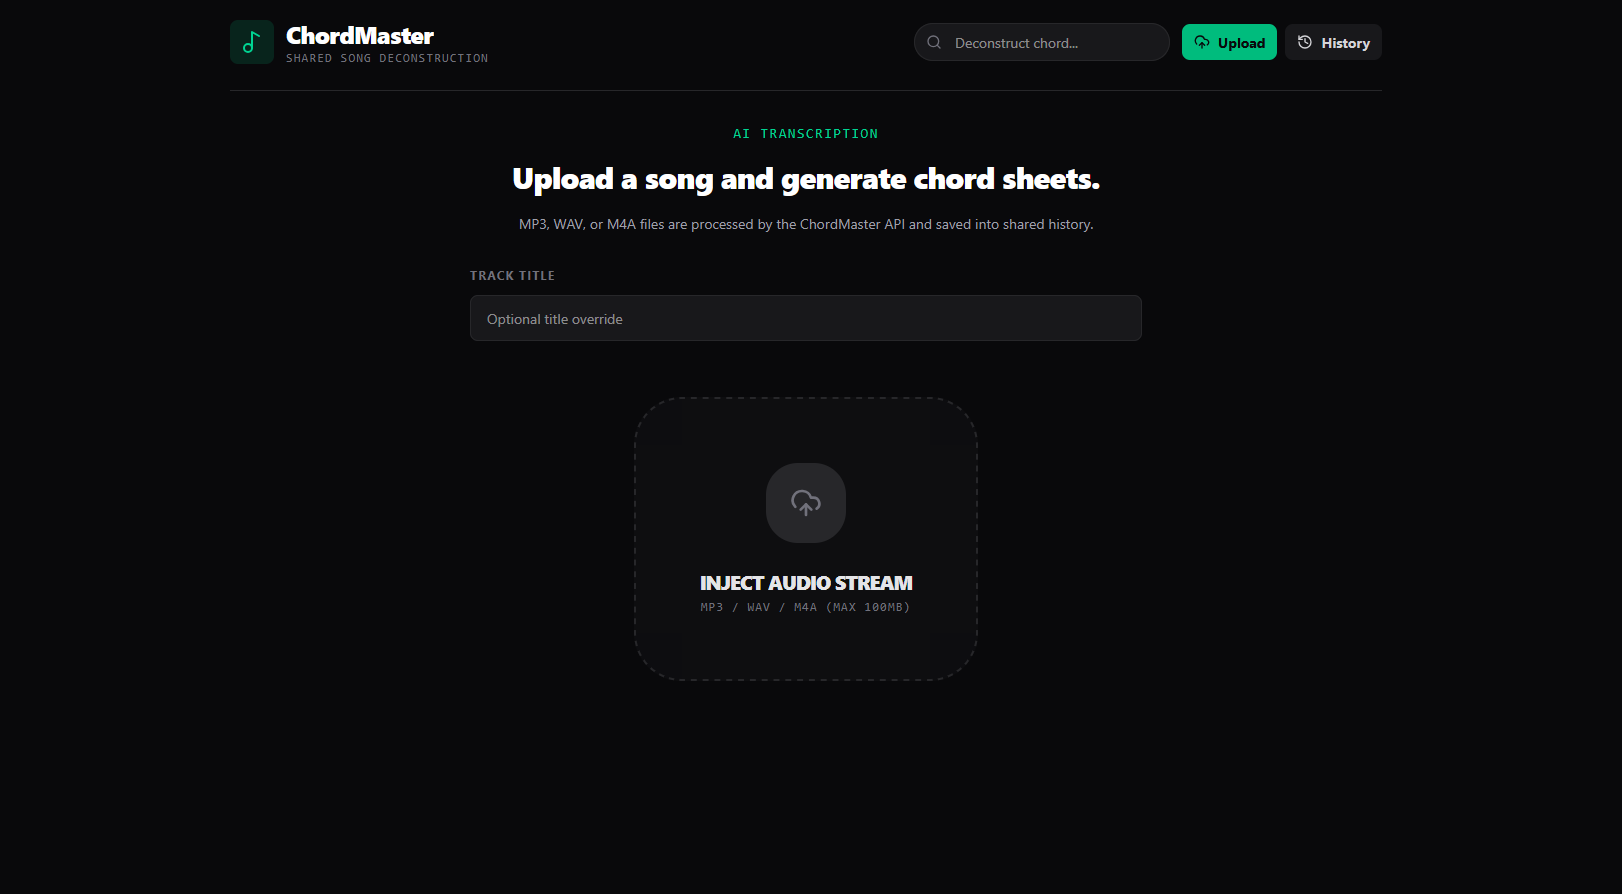
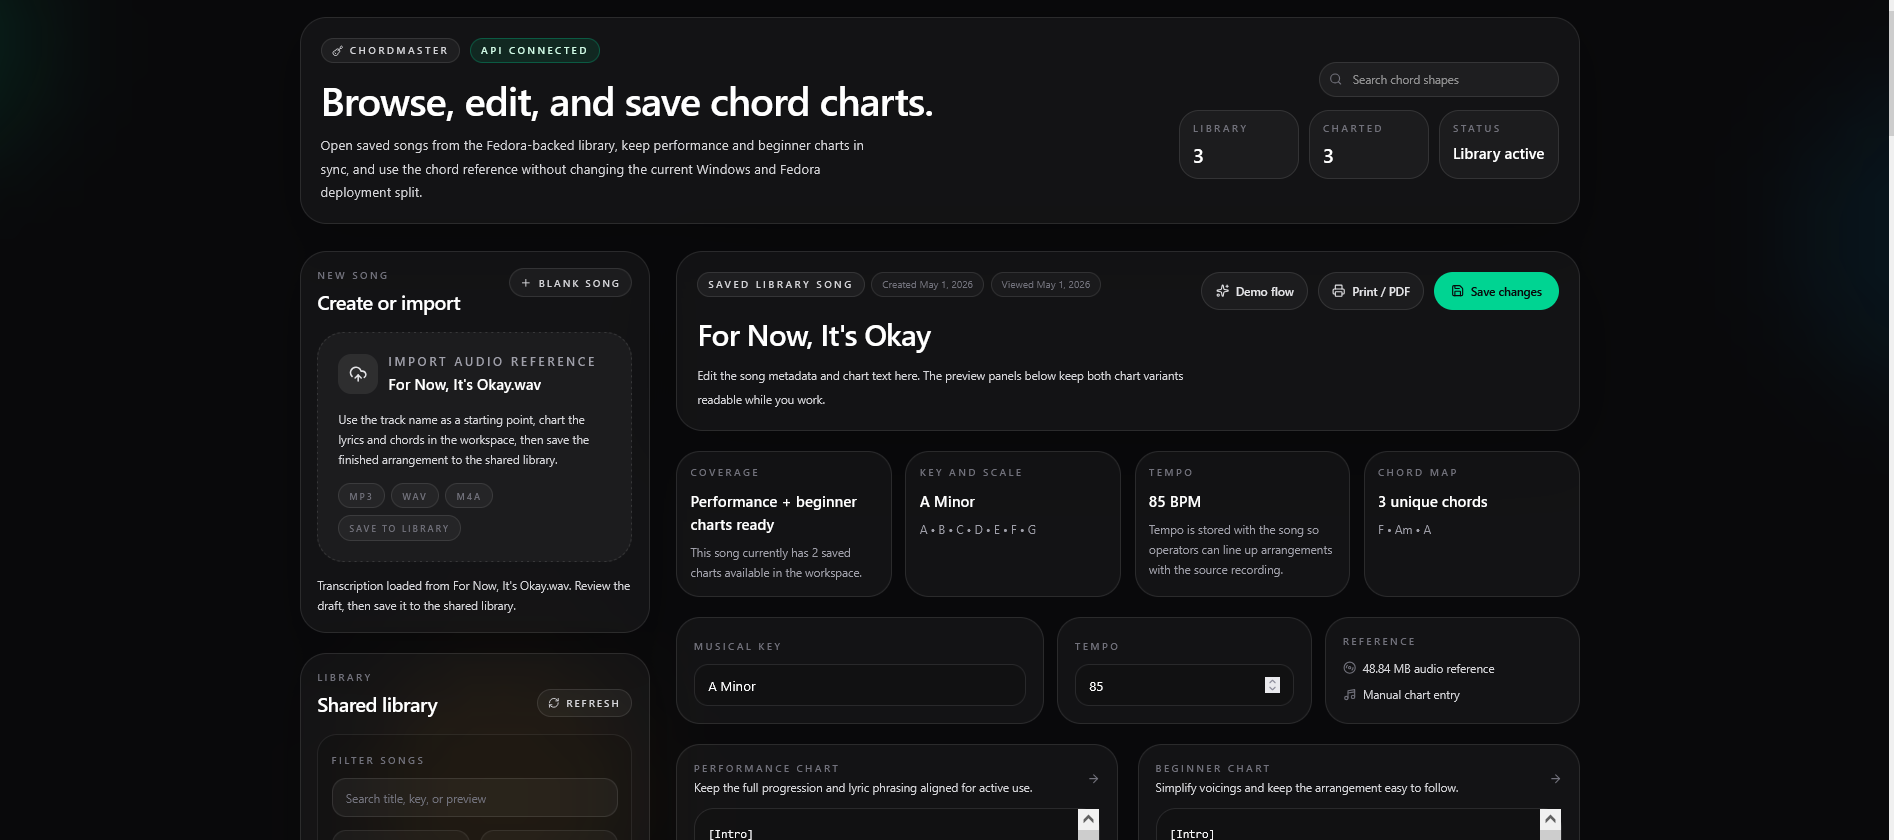
Feature ChordMaster on landing hero

diff --git a/src/App.tsx b/src/App.tsx
@@ -63,6 +63,13 @@ const capabilities: Capability[] = [
   },
 ];
 
+const heroHighlights = [
+  "Interactive chord diagrams",
+  "Song workspace and chord search",
+  "Upload and organize song material",
+  "Built for practice, learning, and arrangement",
+];
+
 const suiteApps: SuiteApp[] = [
   {
     name: "TrackMaster",
@@ -70,7 +77,6 @@ const suiteApps: SuiteApp[] = [
     description:
       "A focused audio mastery app for sharpening reference listening, mastering judgment, and workflow confidence.",
     href: "https://trackmaster.aibry.shop",
-    featured: true,
     screenshots: [
       {
         src: "/screenshots/trackmaster/TrackMaster1.PNG",
@@ -114,17 +120,18 @@ const suiteApps: SuiteApp[] = [
     name: "ChordMaster",
     category: "Music Intelligence",
     description:
-      "A practical music intelligence app for working with harmony, chord relationships, and faster musical understanding.",
+      "Practice, analyze, and organize songs with an interactive chord workspace.",
     href: "https://chordmaster.aibry.shop",
+    featured: true,
     screenshots: [
       {
         src: "/screenshots/chordmaster/ChordMaster1.PNG",
-        alt: "ChordMaster harmony workspace screenshot",
+        alt: "ChordMaster app screenshot",
         label: "Workspace",
       },
       {
         src: "/screenshots/chordmaster/ChordMaster2.PNG",
-        alt: "ChordMaster detailed chord analysis screenshot",
+        alt: "ChordMaster chord chart workspace screenshot",
         label: "Analysis",
       },
     ],
@@ -179,7 +186,7 @@ const steps = [
   "Build judgment through repetition and real workflow pressure.",
 ];
 
-const heroApp = suiteApps.find((app) => app.name === "TrackMaster Comparator");
+const heroApp = suiteApps.find((app) => app.name === "ChordMaster");
 
 function App() {
   return (
@@ -203,22 +210,25 @@ function Hero() {
       <div className="hero__grid">
         <div className="hero__copy">
           <p className="eyebrow">AIBRY Masterclass App Series</p>
-          <h1>A system of apps designed to train real skill.</h1>
+          <h1>ChordMaster</h1>
           <p className="hero__subhead">
-            AIBRY builds interactive tools that teach by doing. Train your ear, strengthen your musical judgment, and execute through real workflows.
+            Practice, analyze, and organize songs with an interactive chord workspace.
+          </p>
+          <p>
+            ChordMaster helps musicians work through songs faster with chord search, visual diagrams, song workspace tools, file uploads, and a cleaner practice flow for learning and arranging music.
           </p>
           <div className="hero__actions" aria-label="Primary actions">
             <a className="button button--primary" href="#apps">
               Explore Apps
             </a>
-            <a className="button button--secondary" href="#trackmaster">
-              View TrackMaster
+            <a className="button button--secondary" href={heroApp?.href ?? "https://chordmaster.aibry.shop"} target="_blank" rel="noreferrer">
+              Open ChordMaster
             </a>
           </div>
           <div className="hero__proof" aria-label="Product principles">
-            <span>Interaction-first</span>
-            <span>Feedback-rich</span>
-            <span>Workflow-native</span>
+            {heroHighlights.map((highlight) => (
+              <span key={highlight}>{highlight}</span>
+            ))}
           </div>
         </div>
         {heroApp ? (
@@ -226,9 +236,9 @@ function Hero() {
             appName={heroApp.name}
             screenshots={heroApp.screenshots}
             defaultActiveScreenshot={heroApp.defaultScreenshot}
-            eyebrow="Mastering reference deck"
-            heading="TrackMaster Comparator"
-            badge="Flagship"
+            eyebrow="Interactive chord workspace"
+            heading="ChordMaster"
+            badge="Featured"
           />
         ) : null}
       </div>
@@ -376,7 +386,7 @@ function AppSuite() {
       <div className="section-heading">
         <p className="eyebrow">Live app suite</p>
         <h2>Launch the AIBRY apps from one place.</h2>
-        <p>TrackMaster Comparator leads the system, with companion apps for comparison, music intelligence, and execution.</p>
+        <p>The suite spans comparison, music intelligence, and execution tools built for real workflow practice.</p>
       </div>
       <div className="series-grid">
         {suiteApps.map((app) => (